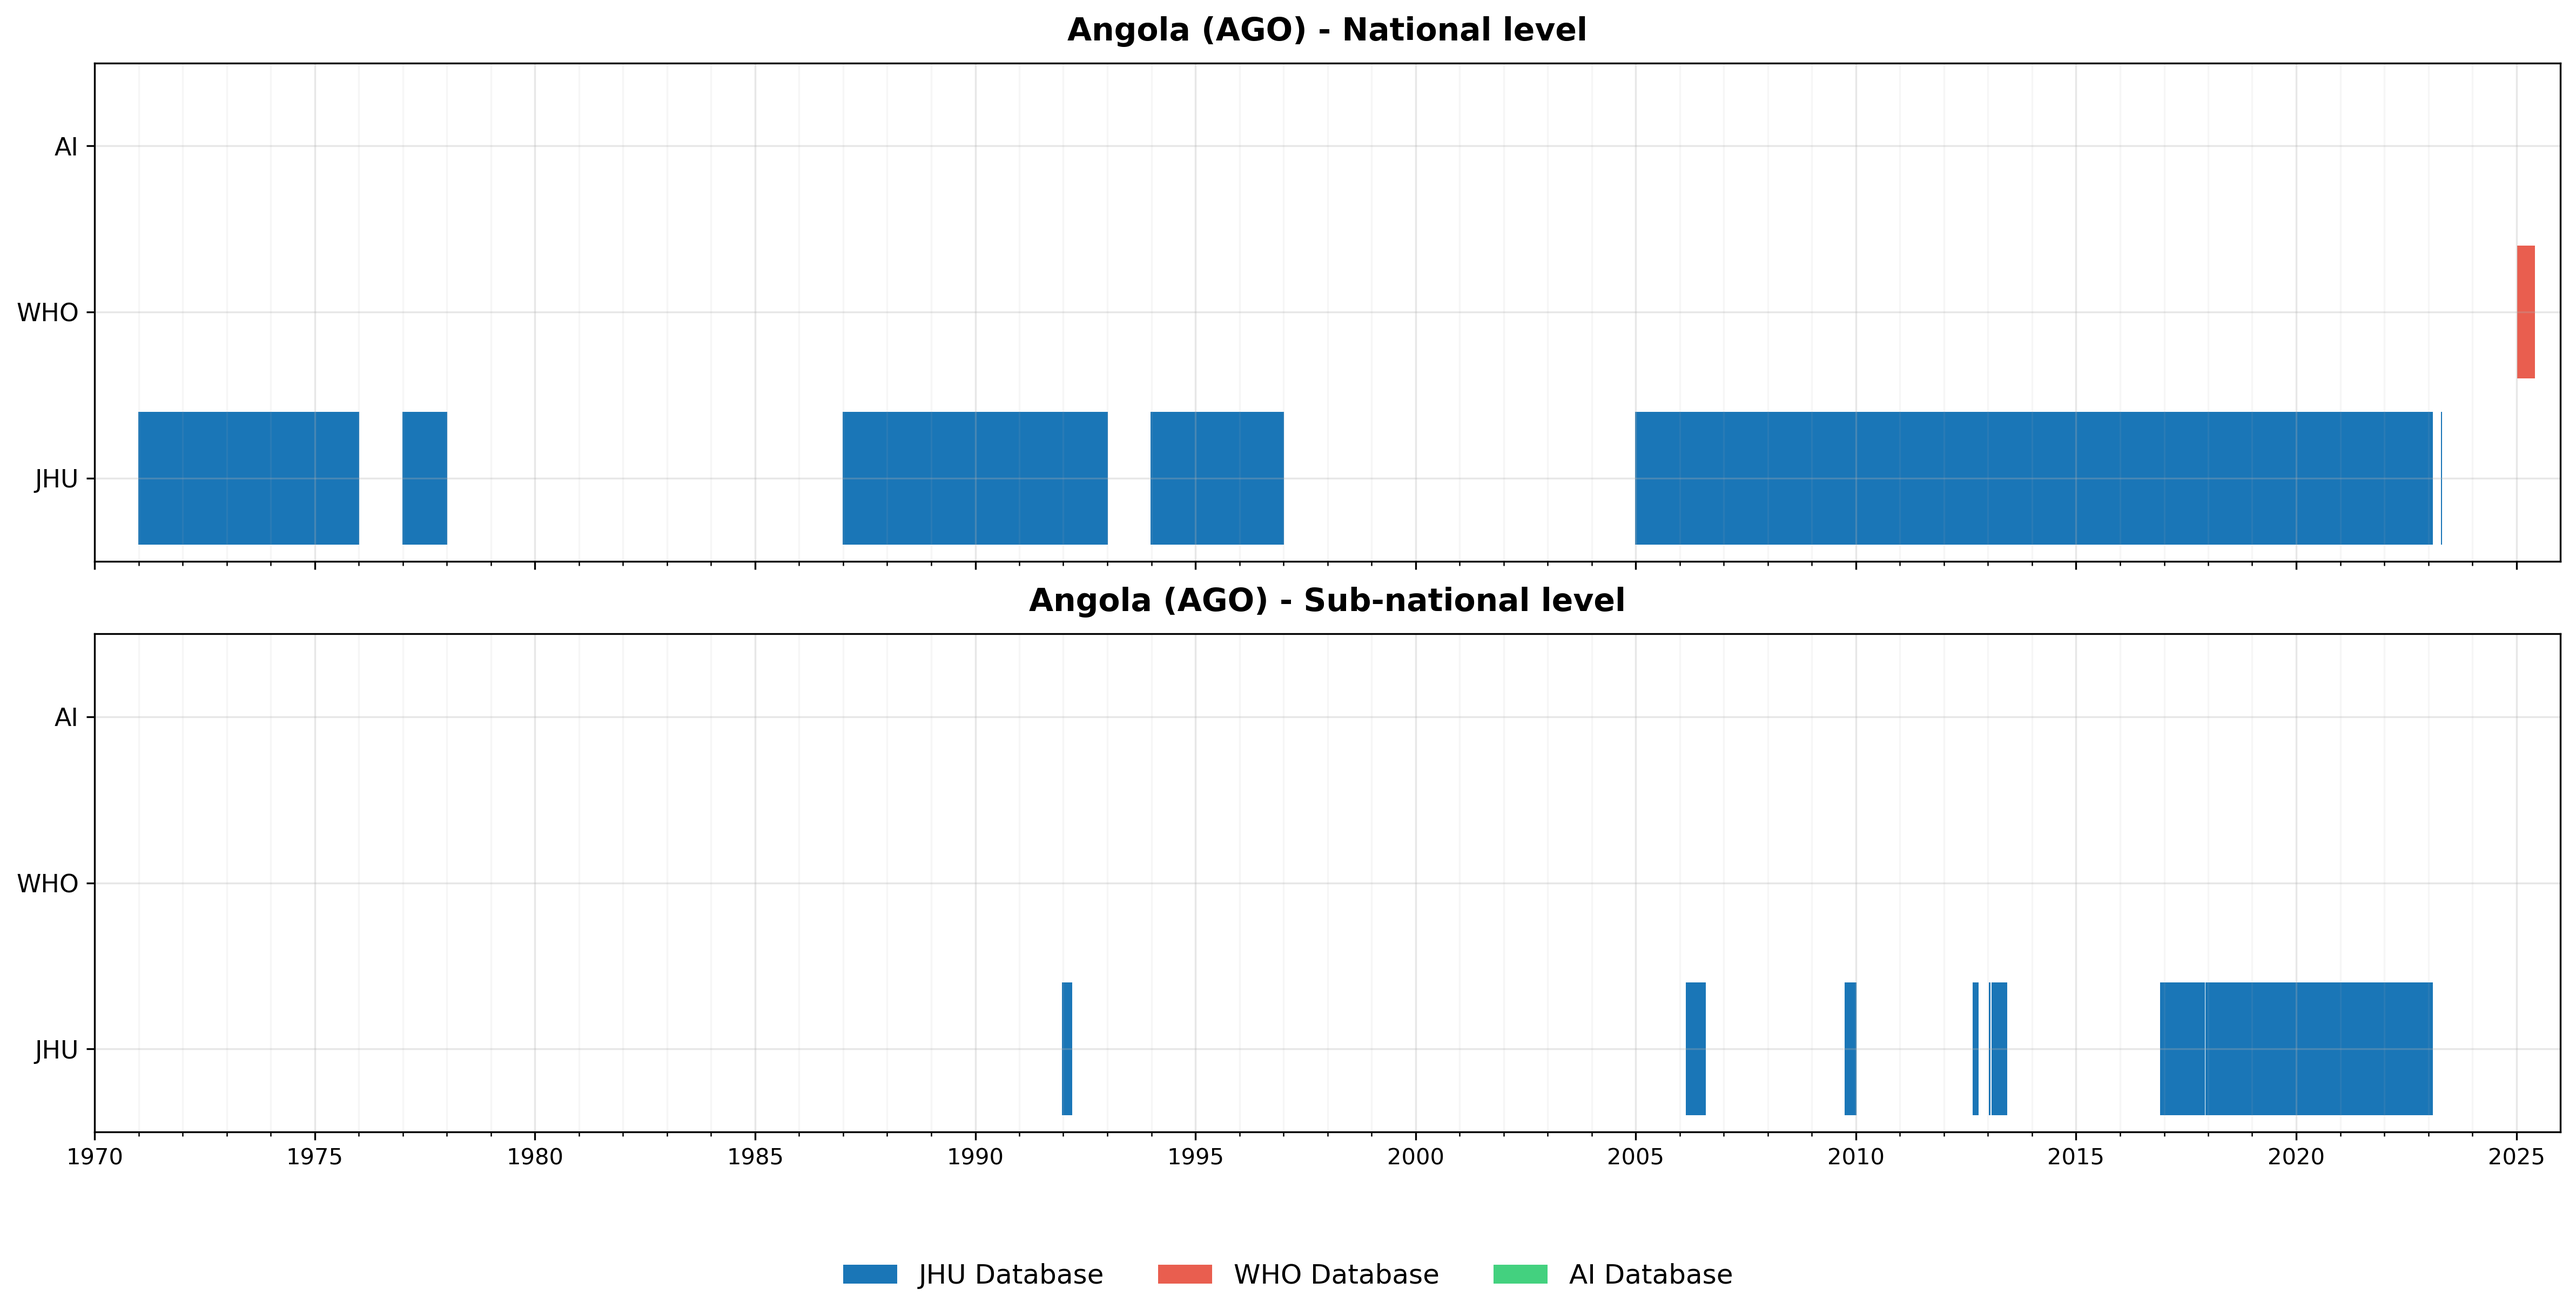
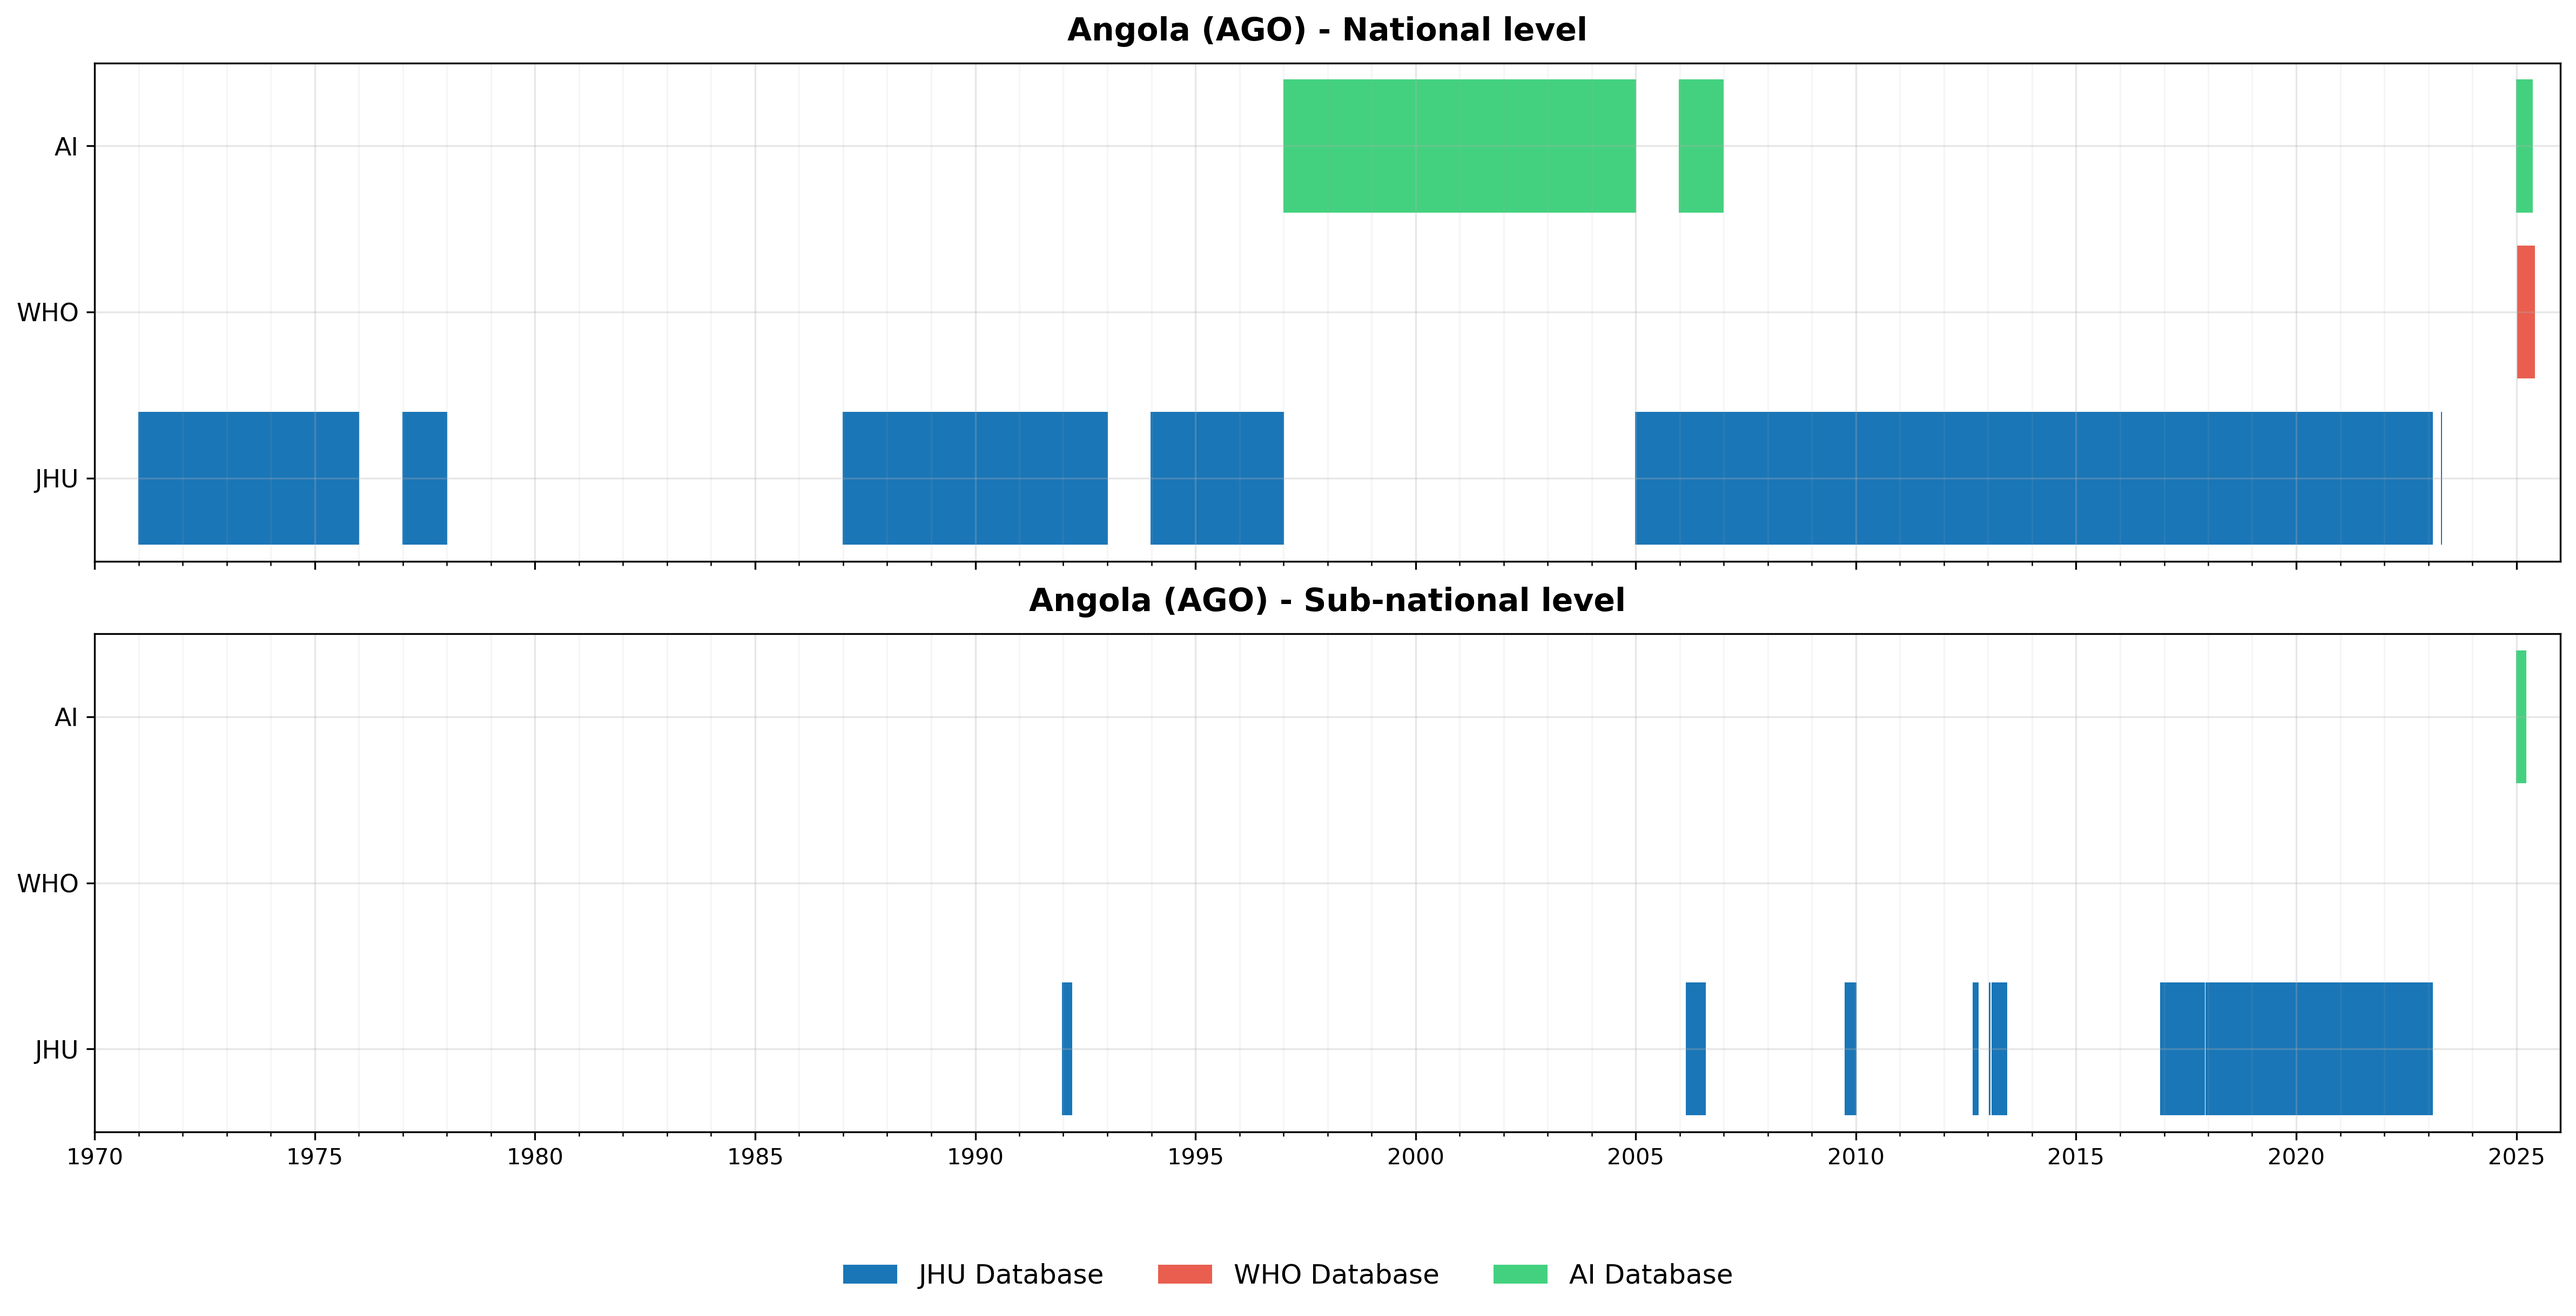
Auto-update dashboard data - 2025-08-03 21:25:23 - Generated with Claude Code

Changed region(s): [[0.4999, 0.0623, 0.6874, 0.187], [0.9685, 0.4988, 0.9998, 0.5923], [0.9685, 0.0623, 0.9998, 0.1559]]

diff --git a/dashboard/dashboard.html b/dashboard/dashboard.html
@@ -1988,15 +1988,15 @@
                 "country": "Angola",
                 "iso": "AGO",
                 "status": "COMPLETED",
-                "datetime": "2025-08-03 19:09:34",
-                "sources": 3,
-                "observations": 3,
-                "date_range": "",
+                "datetime": "2025-08-03 21:20:45",
+                "sources": 6,
+                "observations": 8,
+                "date_range": "1993-2025",
                 "priority": "HIGH",
-                "execution_time": 8,
-                "queries": 27,
-                "yield_pct": 111.1,
-                "notes": "All agents executed; 3 AI data observations; Setup incomplete"
+                "execution_time": 0,
+                "queries": 0,
+                "yield_pct": 0.0,
+                "notes": "All agents executed; 8 AI data observations; Setup incomplete"
         },
         {
                 "country": "Burundi",
@@ -2550,10 +2550,15 @@
     };
         
         const embeddedCholeraData = {
-        "AGO": `start_date,end_date,country,location,province,district,municipality,cases_suspected,cases_confirmed,cases_total,deaths,cfr,attack_rate,source_url,source_name,source_date,source_type,notes,confidence_score,validation_status
-2020-01-01,2024-12-31,Angola,AFR::AGO,National,,,0,0,0,0,0,,https://afro.who.int/countries/angola,WHO AFRO Angola Page,2025-08-04,Official WHO Source,"VALIDATED ZERO TRANSMISSION PERIOD: Systematic search of WHO official sources (WHO AFRO, WHO country page, WHO GHO, MinSA Angola, Africa CDC) revealed no cholera cases reported for 2020-2024 period. Strong surveillance system confirmed by detailed 2025 weekly bulletins (200-203) and active outbreak response in Cuanza Sul province July 2025. Evidence suggests effective surveillance would have detected transmission if present.",0.8,Validated
-2020-01-01,2024-12-31,Angola,AFR::AGO::Cuanza Sul,Cuanza Sul,,0,0,0,0,0,,https://afro.who.int/countries/angola,WHO AFRO Angola Page,2025-08-04,Official WHO Source,"PROVINCIAL ZERO TRANSMISSION VALIDATION: Cuanza Sul province showed active cholera surveillance capacity with outbreak response and mass vaccination program July 2025. No evidence of cholera transmission 2020-2024 despite functional surveillance system. Provincial surveillance would have detected cases if present during this period.",0.8,Validated
-2020-01-01,2024-12-31,Angola,AFR::AGO,Cross-Border Validated,,0,0,0,0,0,,Cross-border analysis,Neighboring Countries Cholera Data,2025-08-04,Cross-Reference Analysis,"CROSS-BORDER VALIDATION: Angola's zero transmission 2020-2024 validated against neighboring countries. DRC had high cholera activity (hundreds of weekly cases in 2023), Zambia had moderate activity (dozens of cases 2023), Namibia limited activity (2025 only). Angola's absence period epidemiologically plausible given strong surveillance system evidenced by immediate 2025 outbreak detection and response.",0.9,Cross-Validated
+        "AGO": `Index,Location,TL,TR,deaths,sCh,cCh,CFR,reporting_date,source_index,source,confidence_weight,processing_notes,source_database
+1,AFR::AGO,2025-01-07,2025-05-14,612,20000,,3.06,2025-05-14,1,Angola health ministry cholera statistics,0.9,"Source states: 'Angola recorded over 20,000 cases of cholera and 612 deaths since January' - interpreted as 20000 sCh cases",AI
+2,AFR::AGO::Luanda,2025-01-01,2025-03-23,,,4143,,2025-03-23,2,WHO disease outbreak news Angola,1.0,"Source states: 'highest number of cases reported from Luanda (4143; 48.5%)' - interpreted as 4143 sCh cases",AI
+3,AFR::AGO::Bengo,2025-01-01,2025-03-23,,,2485,,2025-03-23,2,WHO disease outbreak news Angola,1.0,"Source states: 'Bengo (2485; 29.1%) provinces' - interpreted as 2485 sCh cases",AI
+4,AFR::AGO,2025-01-01,2025-03-23,329,8543,,3.9,2025-03-23,2,WHO disease outbreak news Angola,1.0,"Source states: 'total of 8543 cases and 329 deaths (Case Fatality Rate (CFR) 3.9%)' - interpreted as 8543 sCh cases",AI
+5,AFR::AGO,1993-01-01,1993-12-31,,,,,1993-12-31,3,Frontiers microbiology research,0.8,"Source confirms 1993 was part of continuous epidemic 1987-1996 but no specific case counts for 1993 - represents gap in surveillance data",AI
+6,AFR::AGO,1997-01-01,2004-12-31,0,0,0,0.0,2005-01-01,4,Multiple academic sources,0.9,"Sources confirm decade-long absence of cholera 1997-2004 following 1996 outbreak until 2006 re-emergence - validated zero transmission period",AI
+7,AFR::AGO,2006-02-19,2006-05-08,1156,30612,,3.8,2006-05-08,5,WHO outbreak bulletin 2006,1.0,"Source states: '30,612 cases and 1,156 deaths' February 19 to May 8 2006 - interpreted as 30612 sCh cases",AI
+8,AFR::AGO,2006-01-01,2006-12-31,2382,58138,,4.1,2006-12-31,6,WHO annual surveillance data,1.0,"Source states: 'total for 2006 reached 58,138 cases with 2,382 deaths' - interpreted as 58138 sCh cases",AI
 `,
     };
         
